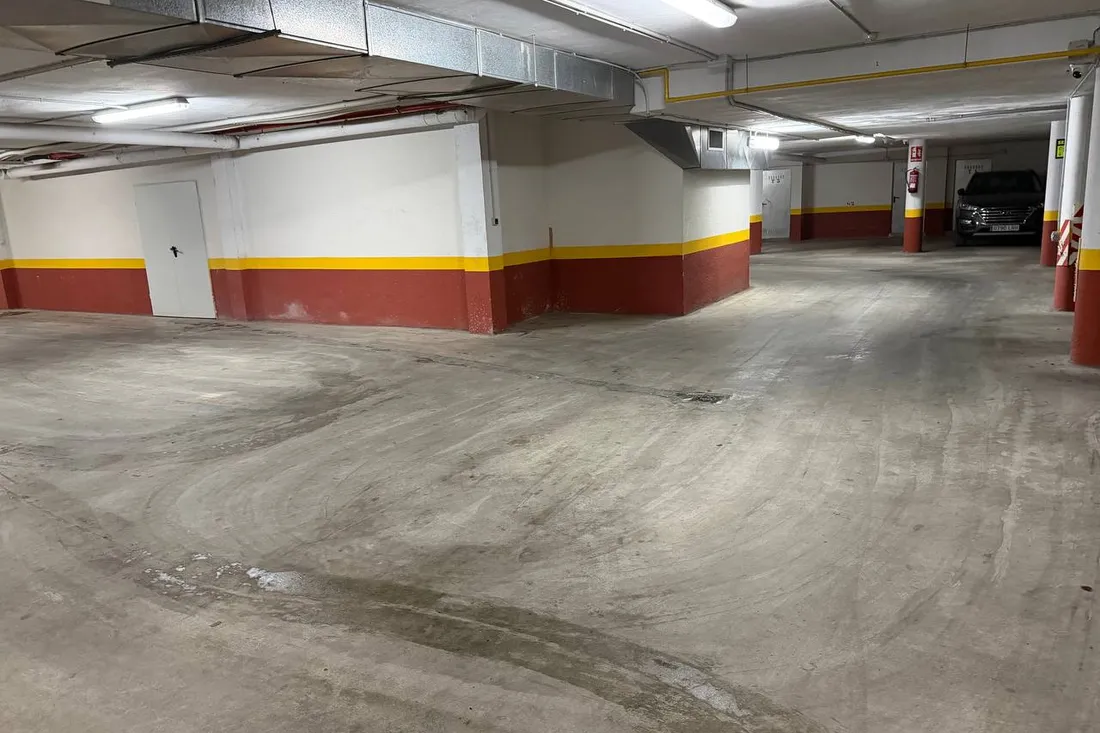
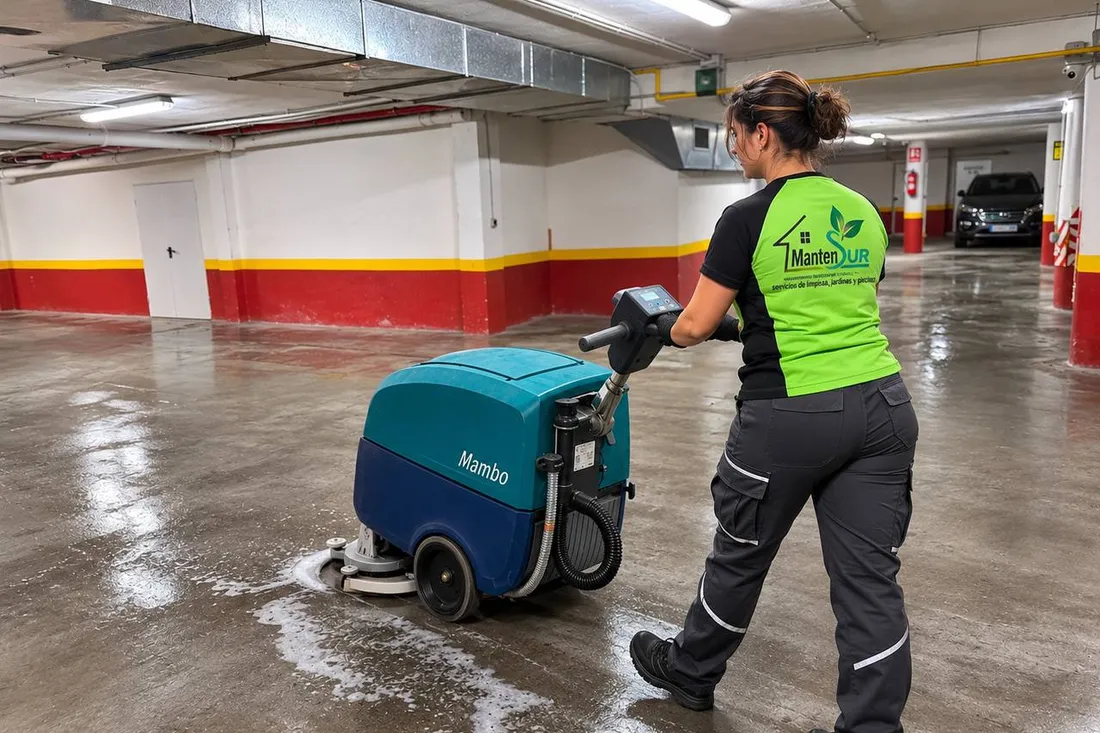
Cambios de la web 08/11/2026 21:14

diff --git a/servicios/index.html b/servicios/index.html
@@ -28,7 +28,7 @@
 <button class="boton-menu" type="button" aria-expanded="false" aria-label="Abrir el menú"><svg viewBox="0 0 24 24" fill="none" stroke="currentColor" stroke-width="1.8"><path d="M4 7h16M4 12h16M4 17h16"/></svg></button>
 </div></header>
 <main id="contenido">
-<section class="titular"><div class="contenedor"><span class="antetitulo">Servicios</span><h1>Nuestros servicios</h1><p>Servicios integrales de mantenimiento para comunidades, empresas y particulares en Córdoba y provincia.</p><div class="indice"><a href="#limpieza-de-edificios">Limpieza de edificios</a><a href="#limpieza-integral-de-parking">Limpieza integral de parking</a><a href="#jardineria">Jardinería</a><a href="#mantenimiento-de-piscinas">Mantenimiento de piscinas</a><a href="#mantenimiento-y-reparaciones">Mantenimiento y reparaciones</a></div></div></section><section class="detalle" id="limpieza-de-edificios"><div class="contenedor"><div class="dos"><div><span class="antetitulo">Zonas comunes, oficinas y locales</span><h2>Limpieza de edificios</h2><p>La limpieza de los edificios y de las zonas comunes es fundamental para que el entorno sea agradable y seguro. Por eso ofrecemos un servicio completo, diseñado para cubrir todas las necesidades de tu edificio y de sus espacios compartidos.</p><p>Adaptamos el plan a cada edificio y a sus vecinos, con la frecuencia y el horario que mejor os encajen, y usamos productos y equipos de calidad para que el resultado se note en cada visita.</p></div><div><img src="/img/limpieza-1100.webp" srcset="/img/limpieza-640.webp 640w, /img/limpieza-1100.webp 1100w" sizes="(max-width:900px) 100vw, 560px" alt="Limpiadora de Mantensur fregando el suelo de un vestíbulo" loading="lazy" decoding="async"></div></div><div class="lista-tareas"><div class="tareas"><h4>Qué incluye</h4><ul><li>Portales, escaleras, rellanos y ascensores.</li><li>Cristales, puertas y barandillas.</li><li>Garajes, trasteros y zonas comunes.</li><li>Oficinas y locales.</li><li>Retirada de residuos y desinfección de superficies.</li></ul></div></div></div></section><section class="detalle" id="limpieza-integral-de-parking"><div class="contenedor"><div class="dos"><div><img src="/img/parking-1100.webp" srcset="/img/parking-640.webp 640w, /img/parking-1100.webp 1100w" sizes="(max-width:900px) 100vw, 560px" alt="Garaje comunitario con el suelo recién fregado" loading="lazy" decoding="async"></div><div><span class="antetitulo">Garajes y aparcamientos de comunidades</span><h2>Limpieza integral de parking</h2><p>Un garaje limpio da buena imagen a la comunidad y es más seguro para quienes lo usan. Nos encargamos de la limpieza a fondo de garajes y aparcamientos, con maquinaria profesional.</p><p>Adaptamos la frecuencia y el horario a tu comunidad para molestar lo menos posible a los vecinos.</p></div></div><div class="lista-tareas"><div class="tareas"><h4>Qué incluye</h4><ul><li>Fregado mecánico de suelos con maquinaria profesional.</li><li>Eliminación de manchas de aceite y marcas de neumáticos.</li><li>Limpieza de rampas, accesos y zonas de paso.</li><li>Limpieza de paredes, columnas y rejillas de desagüe.</li><li>Retirada de residuos y suciedad acumulada.</li></ul></div></div></div></section><section class="detalle" id="jardineria"><div class="contenedor"><div class="dos"><div><span class="antetitulo">Jardines y zonas verdes</span><h2>Jardinería</h2><p>Un jardín bien cuidado mejora el aspecto de tu comunidad y crea un ambiente acogedor y relajante. Nos ocupamos de él durante todo el año para que siempre luzca en su mejor momento.</p><p>Trabajamos contigo para adaptar el jardín al estilo de la comunidad y usamos prácticas de jardinería respetuosas con el medio ambiente.</p></div><div><img src="/img/jardineria-1100.webp" srcset="/img/jardineria-640.webp 640w, /img/jardineria-1100.webp 1100w" sizes="(max-width:900px) 100vw, 560px" alt="Jardinero cortando el césped con un cortacésped" loading="lazy" decoding="async"></div></div><div class="lista-tareas"><div class="tareas"><h4>Qué incluye</h4><ul><li>Corte y cuidado del césped.</li><li>Poda de setos, arbustos y árboles.</li><li>Riego y revisión del sistema de riego.</li><li>Control de plagas y abonado.</li><li>Diseño y plantación de zonas verdes.</li></ul></div></div></div></section><section class="detalle" id="mantenimiento-de-piscinas"><div class="contenedor"><div class="dos"><div><img src="/img/piscinas-1100.webp" srcset="/img/piscinas-640.webp 640w, /img/piscinas-1100.webp 1100w" sizes="(max-width:900px) 100vw, 560px" alt="Piscina de una vivienda con césped y tarima" loading="lazy" decoding="async"></div><div><span class="antetitulo">Agua limpia toda la temporada</span><h2>Mantenimiento de piscinas</h2><p>Mantener una piscina en perfectas condiciones requiere tiempo, constancia y conocimientos. Nos encargamos de todo para que tu comunidad la disfrute sin preocupaciones.</p><p>Diseñamos un plan de mantenimiento ajustado a tu piscina, a su uso y a tu presupuesto, y te asesoramos para que el agua esté siempre en buen estado.</p></div></div><div class="lista-tareas"><div class="tareas"><h4>Qué incluye</h4><ul><li>Limpieza del vaso, el fondo y la superficie.</li><li>Tratamiento y control del agua.</li><li>Revisión de la depuradora y del equipo.</li><li>Puesta a punto al empezar la temporada.</li><li>Cierre e invernaje al terminar.</li></ul></div></div></div></section><section class="detalle" id="mantenimiento-y-reparaciones"><div class="contenedor"><div class="dos"><div><span class="antetitulo">Albañilería, fontanería, electricidad y más</span><h2>Mantenimiento y reparaciones</h2><p>Nos ocupamos del mantenimiento y de las reparaciones que necesite tu comunidad, tu empresa o tu vivienda, desde trabajos de albañilería hasta el mantenimiento eléctrico.</p><p>Atendemos los avisos con rapidez para que las averías molesten lo menos posible a los vecinos, y preparamos un plan de mantenimiento a medida para adelantarnos a los problemas.</p></div><div><img src="/img/reparaciones2-1100.webp" srcset="/img/reparaciones2-640.webp 640w, /img/reparaciones2-1100.webp 1100w" sizes="(max-width:900px) 100vw, 560px" alt="Operarios de Mantensur pintando, soldando, haciendo fontanería, electricidad y albañilería" loading="lazy" decoding="async" class="entera"></div></div><div class="lista-tareas"><div class="tareas"><h4>Qué incluye</h4><ul><li>Albañilería y pequeñas obras.</li><li>Fontanería.</li><li>Electricidad e iluminación.</li><li>Pintura.</li><li>Carpintería y cerrajería.</li></ul></div></div></div></section><section class="llamada"><div class="contenedor">
+<section class="titular"><div class="contenedor"><span class="antetitulo">Servicios</span><h1>Nuestros servicios</h1><p>Servicios integrales de mantenimiento para comunidades, empresas y particulares en Córdoba y provincia.</p><div class="indice"><a href="#limpieza-de-edificios">Limpieza de edificios</a><a href="#limpieza-integral-de-parking">Limpieza integral de parking</a><a href="#jardineria">Jardinería</a><a href="#mantenimiento-de-piscinas">Mantenimiento de piscinas</a><a href="#mantenimiento-y-reparaciones">Mantenimiento y reparaciones</a></div></div></section><section class="detalle" id="limpieza-de-edificios"><div class="contenedor"><div class="dos"><div><span class="antetitulo">Zonas comunes, oficinas y locales</span><h2>Limpieza de edificios</h2><p>La limpieza de los edificios y de las zonas comunes es fundamental para que el entorno sea agradable y seguro. Por eso ofrecemos un servicio completo, diseñado para cubrir todas las necesidades de tu edificio y de sus espacios compartidos.</p><p>Adaptamos el plan a cada edificio y a sus vecinos, con la frecuencia y el horario que mejor os encajen, y usamos productos y equipos de calidad para que el resultado se note en cada visita.</p></div><div><img src="/img/limpieza-1100.webp" srcset="/img/limpieza-640.webp 640w, /img/limpieza-1100.webp 1100w" sizes="(max-width:900px) 100vw, 560px" alt="Limpiadora de Mantensur fregando el suelo de un vestíbulo" loading="lazy" decoding="async"></div></div><div class="lista-tareas"><div class="tareas"><h4>Qué incluye</h4><ul><li>Portales, escaleras, rellanos y ascensores.</li><li>Cristales, puertas y barandillas.</li><li>Garajes, trasteros y zonas comunes.</li><li>Oficinas y locales.</li><li>Retirada de residuos y desinfección de superficies.</li></ul></div></div></div></section><section class="detalle" id="limpieza-integral-de-parking"><div class="contenedor"><div class="dos"><div><img src="/img/parking-1100.webp" srcset="/img/parking-640.webp 640w, /img/parking-1100.webp 1100w" sizes="(max-width:900px) 100vw, 560px" alt="Garaje comunitario con el suelo recién fregado" loading="lazy" decoding="async"></div><div><span class="antetitulo">Garajes y aparcamientos de comunidades</span><h2>Limpieza integral de parking</h2><p>Un garaje limpio da buena imagen a la comunidad y es más seguro para quienes lo usan. Nos encargamos de la limpieza a fondo de garajes y aparcamientos, con maquinaria profesional.</p><p>Para los suelos utilizamos fregadora mecanizada, que deja el pavimento limpio y seco en una sola pasada.</p><p>Adaptamos la frecuencia y el horario a tu comunidad para molestar lo menos posible a los vecinos.</p></div></div><div class="lista-tareas"><div class="tareas"><h4>Qué incluye</h4><ul><li>Fregado de suelos con fregadora mecanizada.</li><li>Eliminación de manchas de aceite y marcas de neumáticos.</li><li>Limpieza de rampas, accesos y zonas de paso.</li><li>Limpieza de paredes, columnas y rejillas de desagüe.</li><li>Retirada de residuos y suciedad acumulada.</li></ul></div></div></div></section><section class="detalle" id="jardineria"><div class="contenedor"><div class="dos"><div><span class="antetitulo">Jardines y zonas verdes</span><h2>Jardinería</h2><p>Un jardín bien cuidado mejora el aspecto de tu comunidad y crea un ambiente acogedor y relajante. Nos ocupamos de él durante todo el año para que siempre luzca en su mejor momento.</p><p>Trabajamos contigo para adaptar el jardín al estilo de la comunidad y usamos prácticas de jardinería respetuosas con el medio ambiente.</p></div><div><img src="/img/jardineria-1100.webp" srcset="/img/jardineria-640.webp 640w, /img/jardineria-1100.webp 1100w" sizes="(max-width:900px) 100vw, 560px" alt="Jardinero cortando el césped con un cortacésped" loading="lazy" decoding="async"></div></div><div class="lista-tareas"><div class="tareas"><h4>Qué incluye</h4><ul><li>Corte y cuidado del césped.</li><li>Poda de setos, arbustos y árboles.</li><li>Riego y revisión del sistema de riego.</li><li>Control de plagas y abonado.</li><li>Diseño y plantación de zonas verdes.</li></ul></div></div></div></section><section class="detalle" id="mantenimiento-de-piscinas"><div class="contenedor"><div class="dos"><div><img src="/img/piscinas-1100.webp" srcset="/img/piscinas-640.webp 640w, /img/piscinas-1100.webp 1100w" sizes="(max-width:900px) 100vw, 560px" alt="Piscina de una vivienda con césped y tarima" loading="lazy" decoding="async"></div><div><span class="antetitulo">Agua limpia toda la temporada</span><h2>Mantenimiento de piscinas</h2><p>Mantener una piscina en perfectas condiciones requiere tiempo, constancia y conocimientos. Nos encargamos de todo para que tu comunidad la disfrute sin preocupaciones.</p><p>Diseñamos un plan de mantenimiento ajustado a tu piscina, a su uso y a tu presupuesto, y te asesoramos para que el agua esté siempre en buen estado.</p></div></div><div class="lista-tareas"><div class="tareas"><h4>Qué incluye</h4><ul><li>Limpieza del vaso, el fondo y la superficie.</li><li>Tratamiento y control del agua.</li><li>Revisión de la depuradora y del equipo.</li><li>Puesta a punto al empezar la temporada.</li><li>Cierre e invernaje al terminar.</li></ul></div></div></div></section><section class="detalle" id="mantenimiento-y-reparaciones"><div class="contenedor"><div class="dos"><div><span class="antetitulo">Albañilería, fontanería, electricidad y más</span><h2>Mantenimiento y reparaciones</h2><p>Nos ocupamos del mantenimiento y de las reparaciones que necesite tu comunidad, tu empresa o tu vivienda, desde trabajos de albañilería hasta el mantenimiento eléctrico.</p><p>Atendemos los avisos con rapidez para que las averías molesten lo menos posible a los vecinos, y preparamos un plan de mantenimiento a medida para adelantarnos a los problemas.</p></div><div><img src="/img/reparaciones2-1100.webp" srcset="/img/reparaciones2-640.webp 640w, /img/reparaciones2-1100.webp 1100w" sizes="(max-width:900px) 100vw, 560px" alt="Operarios de Mantensur pintando, soldando, haciendo fontanería, electricidad y albañilería" loading="lazy" decoding="async" class="entera"></div></div><div class="lista-tareas"><div class="tareas"><h4>Qué incluye</h4><ul><li>Albañilería y pequeñas obras.</li><li>Fontanería.</li><li>Electricidad e iluminación.</li><li>Pintura.</li><li>Carpintería y cerrajería.</li></ul></div></div></div></section><section class="llamada"><div class="contenedor">
 <div><h2>¿Hablamos de tu comunidad, tu empresa o tu casa?</h2><p>Te preparamos un presupuesto a medida y sin compromiso.</p></div>
 <div style="display:flex;gap:12px;flex-wrap:wrap"><a class="boton" href="/contacto/">Pedir presupuesto</a><a class="boton claro" href="tel:+34678853353">678 85 33 53</a></div>
 </div></section>

diff --git a/en/services/index.html b/en/services/index.html
@@ -28,7 +28,7 @@
 <button class="boton-menu" type="button" aria-expanded="false" aria-label="Open the menu"><svg viewBox="0 0 24 24" fill="none" stroke="currentColor" stroke-width="1.8"><path d="M4 7h16M4 12h16M4 17h16"/></svg></button>
 </div></header>
 <main id="contenido">
-<section class="titular"><div class="contenedor"><span class="antetitulo">Services</span><h1>Our services</h1><p>Comprehensive maintenance services for residential communities, businesses and homes in Córdoba and its province.</p><div class="indice"><a href="#limpieza-de-edificios">Building cleaning</a><a href="#limpieza-integral-de-parking">Complete car park cleaning</a><a href="#jardineria">Gardening</a><a href="#mantenimiento-de-piscinas">Pool maintenance</a><a href="#mantenimiento-y-reparaciones">Maintenance and repairs</a></div></div></section><section class="detalle" id="limpieza-de-edificios"><div class="contenedor"><div class="dos"><div><span class="antetitulo">Common areas, offices and premises</span><h2>Building cleaning</h2><p>Clean buildings and common areas are essential for a pleasant and safe environment. That is why we offer a complete service designed to cover every need of your building and its shared spaces.</p><p>We adapt the plan to each building and its residents, with the frequency and schedule that suit you best, and we use quality products and equipment so the result shows after every visit.</p></div><div><img src="/img/limpieza-1100.webp" srcset="/img/limpieza-640.webp 640w, /img/limpieza-1100.webp 1100w" sizes="(max-width:900px) 100vw, 560px" alt="Mantensur cleaner mopping the floor of a lobby" loading="lazy" decoding="async"></div></div><div class="lista-tareas"><div class="tareas"><h4>What it includes</h4><ul><li>Entrance halls, stairs, landings and lifts.</li><li>Windows, doors and railings.</li><li>Garages, storage rooms and common areas.</li><li>Offices and premises.</li><li>Waste removal and surface disinfection.</li></ul></div></div></div></section><section class="detalle" id="limpieza-integral-de-parking"><div class="contenedor"><div class="dos"><div><img src="/img/parking-1100.webp" srcset="/img/parking-640.webp 640w, /img/parking-1100.webp 1100w" sizes="(max-width:900px) 100vw, 560px" alt="Community car park with a freshly cleaned floor" loading="lazy" decoding="async"></div><div><span class="antetitulo">Car parks and garages of residential communities</span><h2>Complete car park cleaning</h2><p>A clean car park gives your community a good image and is safer for the people who use it. We take care of the deep cleaning of car parks and garages with professional machinery.</p><p>We adapt the frequency and schedule to your community to disturb residents as little as possible.</p></div></div><div class="lista-tareas"><div class="tareas"><h4>What it includes</h4><ul><li>Machine scrubbing of floors with professional equipment.</li><li>Removal of oil stains and tyre marks.</li><li>Cleaning of ramps, entrances and walkways.</li><li>Cleaning of walls, columns and drain grates.</li><li>Removal of waste and built-up dirt.</li></ul></div></div></div></section><section class="detalle" id="jardineria"><div class="contenedor"><div class="dos"><div><span class="antetitulo">Gardens and green areas</span><h2>Gardening</h2><p>A well-kept garden improves the look of your community and creates a welcoming, relaxing atmosphere. We look after it all year round so it always looks its best.</p><p>We work with you to adapt the garden to the style of your community, using environmentally friendly gardening practices.</p></div><div><img src="/img/jardineria-1100.webp" srcset="/img/jardineria-640.webp 640w, /img/jardineria-1100.webp 1100w" sizes="(max-width:900px) 100vw, 560px" alt="Gardener mowing the lawn with a lawn mower" loading="lazy" decoding="async"></div></div><div class="lista-tareas"><div class="tareas"><h4>What it includes</h4><ul><li>Lawn mowing and care.</li><li>Pruning of hedges, shrubs and trees.</li><li>Watering and irrigation system checks.</li><li>Pest control and fertilising.</li><li>Design and planting of green areas.</li></ul></div></div></div></section><section class="detalle" id="mantenimiento-de-piscinas"><div class="contenedor"><div class="dos"><div><img src="/img/piscinas-1100.webp" srcset="/img/piscinas-640.webp 640w, /img/piscinas-1100.webp 1100w" sizes="(max-width:900px) 100vw, 560px" alt="Private swimming pool with lawn and decking" loading="lazy" decoding="async"></div><div><span class="antetitulo">Clean water all season</span><h2>Pool maintenance</h2><p>Keeping a pool in perfect condition takes time, consistency and know-how. We take care of everything so your community can enjoy it without worries.</p><p>We design a maintenance plan suited to your pool, its use and your budget, and we advise you so the water is always in good condition.</p></div></div><div class="lista-tareas"><div class="tareas"><h4>What it includes</h4><ul><li>Cleaning of the pool shell, floor and surface.</li><li>Water treatment and testing.</li><li>Checks of the filter and equipment.</li><li>Opening at the start of the season.</li><li>Closing and winterising at the end.</li></ul></div></div></div></section><section class="detalle" id="mantenimiento-y-reparaciones"><div class="contenedor"><div class="dos"><div><span class="antetitulo">Building work, plumbing, electrics and more</span><h2>Maintenance and repairs</h2><p>We handle the maintenance and repairs your community, business or home needs, from building work to electrical maintenance.</p><p>We respond quickly so breakdowns disturb residents as little as possible, and we prepare a tailored maintenance plan to stay ahead of problems.</p></div><div><img src="/img/reparaciones2-1100.webp" srcset="/img/reparaciones2-640.webp 640w, /img/reparaciones2-1100.webp 1100w" sizes="(max-width:900px) 100vw, 560px" alt="Mantensur workers painting, welding, plumbing, doing electrical and building work" loading="lazy" decoding="async" class="entera"></div></div><div class="lista-tareas"><div class="tareas"><h4>What it includes</h4><ul><li>Building work and small works.</li><li>Plumbing.</li><li>Electrics and lighting.</li><li>Painting.</li><li>Carpentry and locksmithing.</li></ul></div></div></div></section><section class="llamada"><div class="contenedor">
+<section class="titular"><div class="contenedor"><span class="antetitulo">Services</span><h1>Our services</h1><p>Comprehensive maintenance services for residential communities, businesses and homes in Córdoba and its province.</p><div class="indice"><a href="#limpieza-de-edificios">Building cleaning</a><a href="#limpieza-integral-de-parking">Complete car park cleaning</a><a href="#jardineria">Gardening</a><a href="#mantenimiento-de-piscinas">Pool maintenance</a><a href="#mantenimiento-y-reparaciones">Maintenance and repairs</a></div></div></section><section class="detalle" id="limpieza-de-edificios"><div class="contenedor"><div class="dos"><div><span class="antetitulo">Common areas, offices and premises</span><h2>Building cleaning</h2><p>Clean buildings and common areas are essential for a pleasant and safe environment. That is why we offer a complete service designed to cover every need of your building and its shared spaces.</p><p>We adapt the plan to each building and its residents, with the frequency and schedule that suit you best, and we use quality products and equipment so the result shows after every visit.</p></div><div><img src="/img/limpieza-1100.webp" srcset="/img/limpieza-640.webp 640w, /img/limpieza-1100.webp 1100w" sizes="(max-width:900px) 100vw, 560px" alt="Mantensur cleaner mopping the floor of a lobby" loading="lazy" decoding="async"></div></div><div class="lista-tareas"><div class="tareas"><h4>What it includes</h4><ul><li>Entrance halls, stairs, landings and lifts.</li><li>Windows, doors and railings.</li><li>Garages, storage rooms and common areas.</li><li>Offices and premises.</li><li>Waste removal and surface disinfection.</li></ul></div></div></div></section><section class="detalle" id="limpieza-integral-de-parking"><div class="contenedor"><div class="dos"><div><img src="/img/parking-1100.webp" srcset="/img/parking-640.webp 640w, /img/parking-1100.webp 1100w" sizes="(max-width:900px) 100vw, 560px" alt="Community car park with a freshly cleaned floor" loading="lazy" decoding="async"></div><div><span class="antetitulo">Car parks and garages of residential communities</span><h2>Complete car park cleaning</h2><p>A clean car park gives your community a good image and is safer for the people who use it. We take care of the deep cleaning of car parks and garages with professional machinery.</p><p>For the floors we use a mechanised scrubber-dryer, which leaves the surface clean and dry in a single pass.</p><p>We adapt the frequency and schedule to your community to disturb residents as little as possible.</p></div></div><div class="lista-tareas"><div class="tareas"><h4>What it includes</h4><ul><li>Floor scrubbing with a mechanised scrubber-dryer.</li><li>Removal of oil stains and tyre marks.</li><li>Cleaning of ramps, entrances and walkways.</li><li>Cleaning of walls, columns and drain grates.</li><li>Removal of waste and built-up dirt.</li></ul></div></div></div></section><section class="detalle" id="jardineria"><div class="contenedor"><div class="dos"><div><span class="antetitulo">Gardens and green areas</span><h2>Gardening</h2><p>A well-kept garden improves the look of your community and creates a welcoming, relaxing atmosphere. We look after it all year round so it always looks its best.</p><p>We work with you to adapt the garden to the style of your community, using environmentally friendly gardening practices.</p></div><div><img src="/img/jardineria-1100.webp" srcset="/img/jardineria-640.webp 640w, /img/jardineria-1100.webp 1100w" sizes="(max-width:900px) 100vw, 560px" alt="Gardener mowing the lawn with a lawn mower" loading="lazy" decoding="async"></div></div><div class="lista-tareas"><div class="tareas"><h4>What it includes</h4><ul><li>Lawn mowing and care.</li><li>Pruning of hedges, shrubs and trees.</li><li>Watering and irrigation system checks.</li><li>Pest control and fertilising.</li><li>Design and planting of green areas.</li></ul></div></div></div></section><section class="detalle" id="mantenimiento-de-piscinas"><div class="contenedor"><div class="dos"><div><img src="/img/piscinas-1100.webp" srcset="/img/piscinas-640.webp 640w, /img/piscinas-1100.webp 1100w" sizes="(max-width:900px) 100vw, 560px" alt="Private swimming pool with lawn and decking" loading="lazy" decoding="async"></div><div><span class="antetitulo">Clean water all season</span><h2>Pool maintenance</h2><p>Keeping a pool in perfect condition takes time, consistency and know-how. We take care of everything so your community can enjoy it without worries.</p><p>We design a maintenance plan suited to your pool, its use and your budget, and we advise you so the water is always in good condition.</p></div></div><div class="lista-tareas"><div class="tareas"><h4>What it includes</h4><ul><li>Cleaning of the pool shell, floor and surface.</li><li>Water treatment and testing.</li><li>Checks of the filter and equipment.</li><li>Opening at the start of the season.</li><li>Closing and winterising at the end.</li></ul></div></div></div></section><section class="detalle" id="mantenimiento-y-reparaciones"><div class="contenedor"><div class="dos"><div><span class="antetitulo">Building work, plumbing, electrics and more</span><h2>Maintenance and repairs</h2><p>We handle the maintenance and repairs your community, business or home needs, from building work to electrical maintenance.</p><p>We respond quickly so breakdowns disturb residents as little as possible, and we prepare a tailored maintenance plan to stay ahead of problems.</p></div><div><img src="/img/reparaciones2-1100.webp" srcset="/img/reparaciones2-640.webp 640w, /img/reparaciones2-1100.webp 1100w" sizes="(max-width:900px) 100vw, 560px" alt="Mantensur workers painting, welding, plumbing, doing electrical and building work" loading="lazy" decoding="async" class="entera"></div></div><div class="lista-tareas"><div class="tareas"><h4>What it includes</h4><ul><li>Building work and small works.</li><li>Plumbing.</li><li>Electrics and lighting.</li><li>Painting.</li><li>Carpentry and locksmithing.</li></ul></div></div></div></section><section class="llamada"><div class="contenedor">
 <div><h2>Shall we talk about your community, business or home?</h2><p>We will prepare a tailored, no-obligation quote for you.</p></div>
 <div style="display:flex;gap:12px;flex-wrap:wrap"><a class="boton" href="/en/contact/">Get a quote</a><a class="boton claro" href="tel:+34678853353">678 85 33 53</a></div>
 </div></section>
